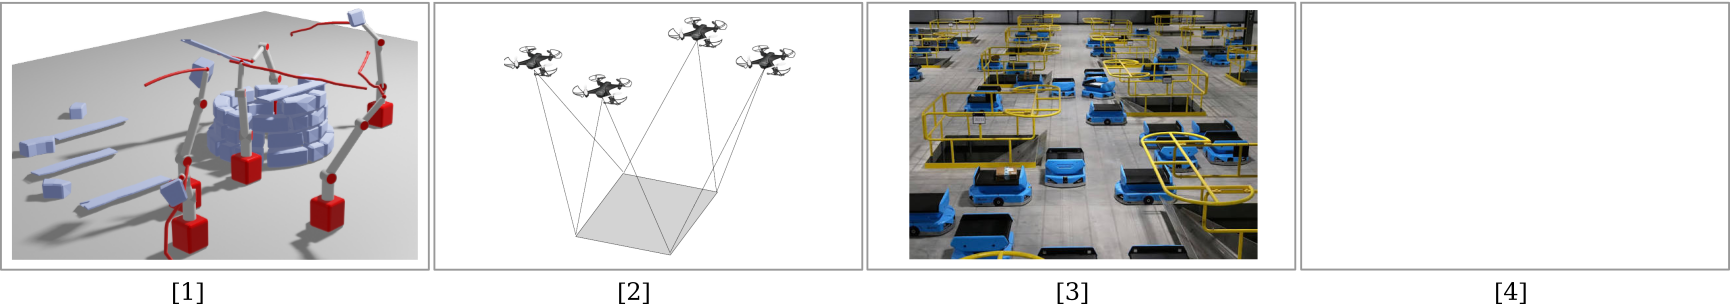
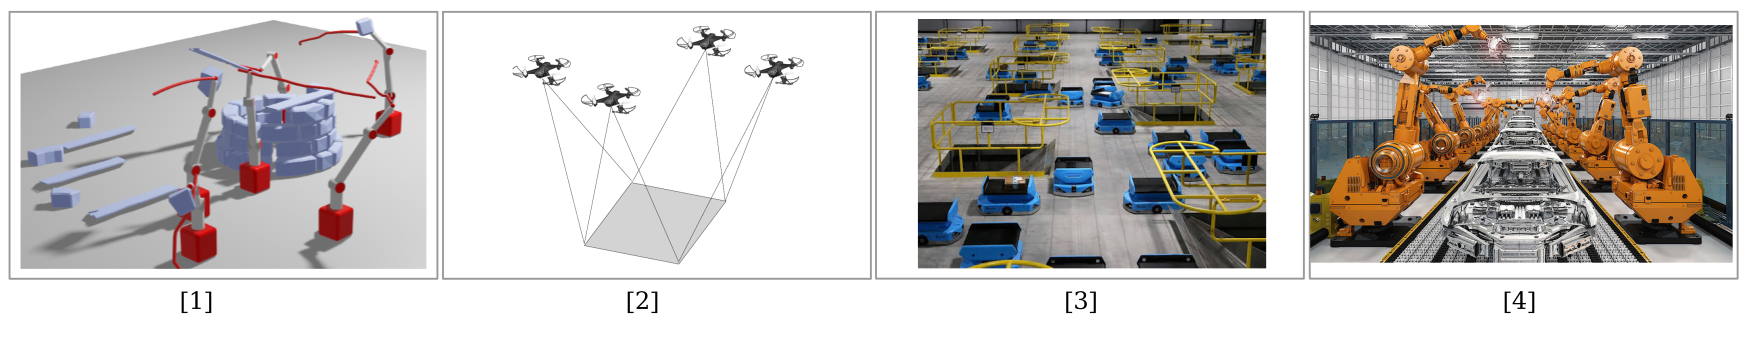
add fourth application for mrs

diff --git a/media/custom-phd-defense.css b/media/custom-phd-defense.css
@@ -73,6 +73,15 @@
   margin: 5px;
 }
 
+.box-def-two {
+  border: 4px solid #e7e1e1;
+  border-radius: 20px;
+  height: 400px;
+  width: 400px;
+  background: #dbd9d9;
+  margin: 5px;
+}
+
 .box-def-title {
   background-color: #555555;
   border: 4px solid #555555;

diff --git a/phd-defense.md b/phd-defense.md
@@ -42,18 +42,18 @@ Autonomy of a team of robots requires being able to reach the goal quickly while
 :::
 
 
-### Key Challenges
+### Key Challenges in Multi-Robot Coordination
 
 ::: {data-fragment-index="1"}
-- Time-Optimality: Suboptimal solutions (<span style="font-size:0.6em; color:gray;">(Sharon et al., 2015)</span>)
+- Time-Optimality: How fast can robots reach their goals?
 :::
 
 ::: {.fragment  data-fragment-index="2"}
-- Interaction-Awareness: Deviate from planned trajectories, conservative assumptions (<span style="font-size:0.6em; color:gray;">(Sharon et al., 2015)</span>)
+- Interaction-Awareness: How should robots coordinate in close proximity?
 :::
 
 ::: {.fragment data-fragment-index="3"}
-- Scalability, Efficiency: Computationally expensive, limited scalability (<span style="font-size:0.6em; color:gray;">(Sharon et al., 2015)</span>)
+- Scalability & Efficiency: Can motion planning be fast and scalable?
 :::
 
 
@@ -141,7 +141,7 @@ Dynamics - function that describes the change of the configuration space, given 
 
 ::: {.box-green}
 :::: {.box-green-title}
-Car with trailer Dynamics
+Car-with-trailer Dynamics
 ::::
 States $\mathbf{x} = (x, y, \theta_1, \theta_2)$, where $x,y$ is the position, and $\theta_1$, $\theta_2$ are the orientations for the car and trailer. Actions $\mathbf{u} = (v, \phi)$, where $v$ is linear velocity, $\phi$ the steerig angle. 
 $L$ is the car wheelbase, $L_h$ is the hitch length.
@@ -152,6 +152,20 @@ $\dot{x} = v \cos \theta_1, \quad \dot{y} = v \sin \theta_1, \quad \dot{\theta_1
 :::
 
 ![](media/image/icaps/car_with_trailer.png){width=400}
+
+
+# Background: discontinuity-bounded Search with Motion Primitives {#preview}
+
+Motion primitive - short trajectories, which follows robot dynamics $\mathbf{x}_{k+1} = \mathbf{f}(\mathbf{x}_k,\mathbf{u}_k)$
+
+![](media/image/nu/motion-primitive.png){width=500}
+
+. . . 
+
+discontinuity-bounded Search - allows for an user-defined discontinuity ($\delta$) between states
+
+![](media/image/phd-defense/db-search.png){width=500}
+
 
 # Presentation Overview
 
@@ -238,8 +252,8 @@ MAPF
 - <span style="color:red">Ignores robot dynamics</span>
 <img src="media/image/phd-defense/mapf.png" width="100%">
 
-<div style="font-size:0.45em; color:gray; margin-top:0.1em;">
-Sharon et al., 2015; Sharon et al., 2015; Sharon et al., 2015; 
+<div style="font-size:0.6em; color:gray; margin-top:-1.1em;">
+Sharon et al., 2015; SJ. Li, Chen, et al., 2021; Okumura, 2023b; 
 </div>
 
 :::
@@ -255,8 +269,8 @@ MAPF + Post-processing
 - <span style="color:red">Suboptimal trajectories</span>
 <img src="media/image/phd-defense/mapf-post.png" width="100%">
 
-<div style="font-size:0.45em; color:gray; margin-top:0.1em;">
-Sharon et al., 2015; Sharon et al., 2015; Sharon et al., 2015; 
+<div style="font-size:0.6em; color:gray; margin-top:-1.1em;">
+Hönig et al., 2018; Luis et al., 2020;
 </div>
 :::
 ::::
@@ -271,8 +285,8 @@ Bezier/Spline-based
 - <span style="color:red">Limited dynamics</span> 
 <img src="media/image/phd-defense/bezier-based-method.png" width="100%">
 
-<div style="font-size:0.45em; color:gray; margin-top:0.1em;">
-Sharon et al., 2015; Sharon et al., 2015; Sharon et al., 2015; 
+<div style="font-size:0.6em; color:gray; margin-top:-1.1em;">
+Senbaslar et al., 2023; Yan & Li, 2024;
 </div>
 :::
 ::::
@@ -307,8 +321,6 @@ Research Gap:
 Moldagalieva, A., Ortiz-Haro, J., Toussaint, M., Hönig, W. (2024)<i>db-CBS: Discontinuity-Bounded Conflict-Based Search for Multi-Robot Kinodynamic Motion Planning</i>, IEEE  International Conference on Robotics and Automation (ICRA).
 </div>
 
-
-<!-- # db-CBS: Main Idea {#preview} -->
 
 # db-CBS: How it works? {#preview}
 
@@ -564,7 +576,7 @@ Interaction Awareness for Motion Planning
 # Computational Effort in Kinodynamic Motion Planning {#preview}
 
 <img src="media/image/phd-defense/complexity-scalability.png"
-     style="width: 75%; height: auto;">
+     style="width: 70%; height: auto;">
 
 . . . 
 
@@ -634,6 +646,19 @@ Exhaustive search eventually finds a solution, while stochastic motion sampling 
 
 # db-LaCAM: Summary {#preview}
 
+
+# Conclusion: Impact of Research Results
+
+::: {.box-green}
+:::: {.box-green-title}
+Physically realistic planning &rarr; Real-world deployment
+::::
+- Plan motions that respect what robots can actually execute
+- Move beyond simplified models to heterogeneous robot dynamics
+- Bring multi-robot planning closer to real-world autonomous operation
+:::
+
+
 # Conclusion: Summary of Contributions {#preview}
 
 <ul class="overview">
@@ -663,30 +688,31 @@ Safe, Fast Motion Planning
 
 . . . 
 
+
 <div class="parts-result-boxes">
 
   <div class="result-box">
-  - motion-primitive-based kinodynamic planning framework
+  - high-quality solutions
   - scalability across heterogeneous robot dynamics
   <br>
-  <span style="color: #0072B2; position: relative; top: 70px; left: 5px;">
+  <span style="color: #0072B2; position: relative; top: 130px; left: 5px;">
     (Ch. 4 - ICRA 2024)<br>
     (Ch. 5 - Preprint)
   </span>
   </div>
 
   <div class="result-box">
-  - directly reasons about aerodynamic force between flying robots
-  - better scalability (<=16 robots)
+  - safe trajectories in dense formations
+  - scalability up to 16 robots
   <br>
-  <span style="color: #0072B2; position: relative; top: 100px; left: 5px;">
+  <span style="color: #0072B2; position: relative; top: 160px; left: 5px;">
     (Ch. 6 - T-RO 2025)<br>
     (Ch. 7 - MRS 2023)
   </span>
   </div>
 
   <div class="result-box">
-  - computational runtime improvement up to 10x
+  - computational runtime improvement up to $10\times$
   - scalability up to 50 robots
   <br>
   <span style="color: #0072B2; position: relative; top: 160px; left: 5px;">
@@ -695,6 +721,8 @@ Safe, Fast Motion Planning
   </div>
 
 </div>
+
+
 
 # Conclusion: Limitations {#preview}
 
@@ -728,86 +756,42 @@ Safe, Fast Motion Planning
 <div class="parts-result-boxes">
 
   <div class="result-red-box">
-  - poor scalability
-  - computationally expensive
+  In obstacle-dense environments, the planner can spend significant time resolving conflicts.
   </div>
 
   <div class="result-red-box">
-  - suboptimal solutions
-  - computationally expensive
+  The joint-state space trajectory optimization scales poorly with large robot teams.
   </div>
 
   <div class="result-red-box">
-  - no optimality guarantees
-  - rely on accurate heuristics
+  With non-accurate heuristic estimation, the planner can be inefficient.
   </div>
 
 </div>
 
+
+
 # Open Challenges and Future Work {#preview}
 
-. . . 
-
-- Scalable Interaction-Aware Motion Planning - <span style="color: red;">
-  Difficult to maintain scalability while reasoning about dynamic coupling
-  </span>
-  
 . . .
 
-- Task and Motion Planning Integration - *system-level intelligence*
+- Motion planning for unmodeled dynamics - <span style="color: red;">
+  Difficult to model dynamics, that are under external disturbances
+  </span>
+
+. . .
+
+- Task and Motion Planning Integration/*System-level Intelligence* - Internal decision-making mechanisms that allocate tasks based on individual capabilities and global objectives.
 
 . . . 
 
-- Learning-Integrated Motion Planning - represent dynamics, particularly in settings
-where system behavior changes under external disturbances such as wind, friction, or contact.
+- Real-Time Performance and Guarantees - Balancing formal guarantees with real-time computational performance.
 
 . . . 
 
-- Human-in-the-Loop and Safety
+- Benchmarking and Standardization - Reproducibility and fair comparison between different methods.
 
-. . . 
 
-- Real-Time Performance and Guarantees
-
-. . . 
-
-- Benchmarking and Standardization
-
-<!-- ::: {.container}
-
-:::: {.col}
-::: {.box-def}
-:::: {.box-blue-title}
-Offline Motion Planning
-::::
-- Task and Motion Planning Integration
-- Learning-Integrated Motion Planning
-
-:::
-::::
-
-:::: {.col}
-::: {.box-def}
-:::: {.box-blue-title}
-Online Motion Planning
-::::
-- Human-in-the-Loop and Safety
-- Real-Time Performance and Guarantees
-
-:::
-::::
-
-:::: {.col}
-::: {.box-def}
-:::: {.box-blue-title}
-Methodological Directions
-::::
-- Benchmarking and Standardization
-
-:::
-::::
-
-::: -->
 
 # Thanks to
 
